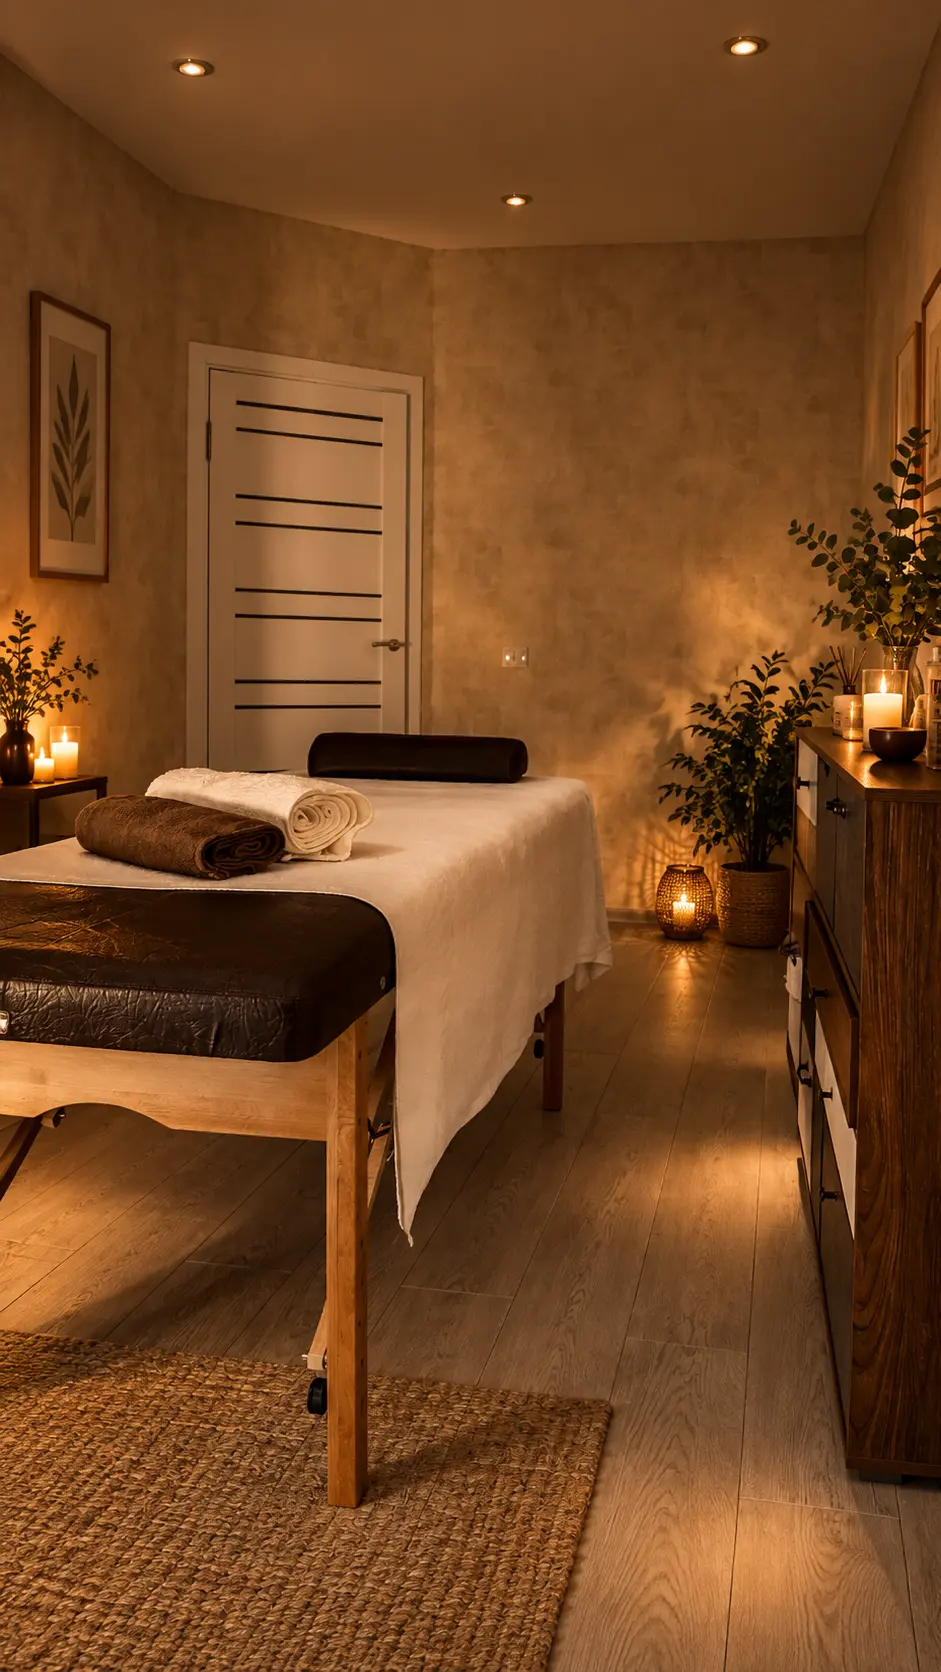
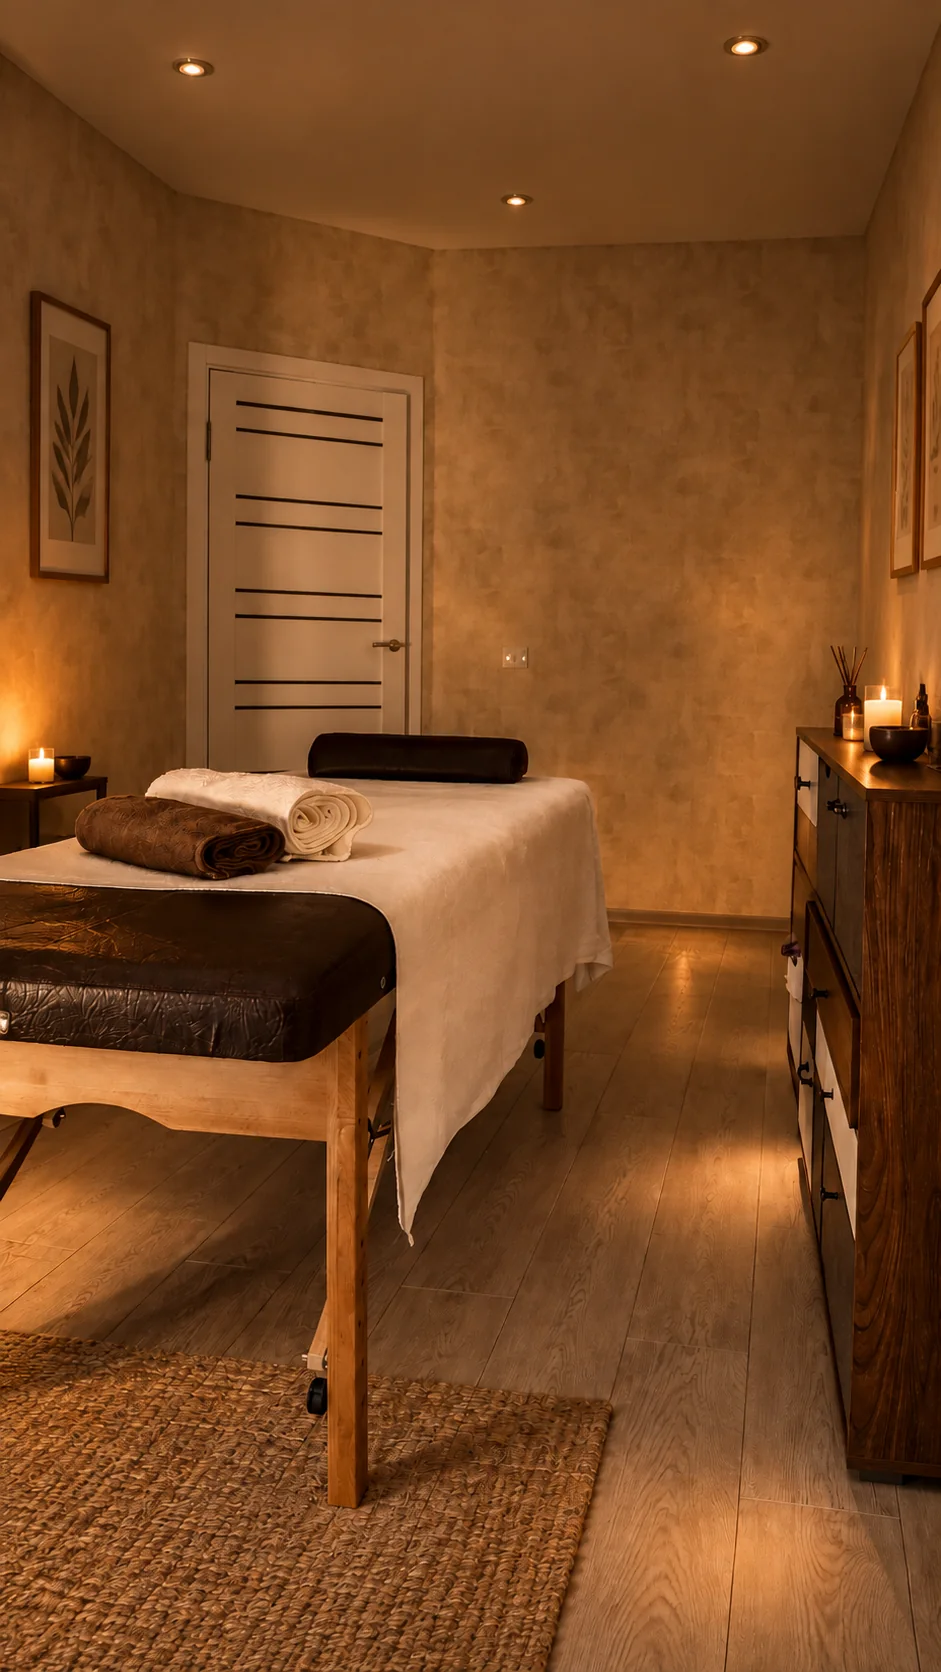
Replace room photos with cleaner client revisions

diff --git a/app/page.tsx b/app/page.tsx
@@ -424,7 +424,7 @@ export default function Home() {
           <div className="approach-poster">
             <img
               src="./images/photo-01-room.webp"
-              alt="Подготовленный массажный кабинет с мягким светом и зеленью"
+              alt="Подготовленный массажный кабинет с мягким тёплым светом"
               width="941"
               height="1672"
               loading="lazy"
@@ -538,7 +538,7 @@ export default function Home() {
             <figure>
               <img
                 src="./images/photo-03-room.webp"
-                alt="Массажный кабинет с подготовленным столом и зелёными растениями"
+                alt="Массажный кабинет с подготовленным столом и тёплым освещением"
                 width="941"
                 height="1672"
                 loading="lazy"

diff --git a/DESIGN.md b/DESIGN.md
@@ -30,4 +30,4 @@ Calm editorial landing page for a private massage practice. Approved photography
 
 ## Image policy
 
-All seven approved photos are rendered with responsive `object-fit: cover` crops. Photo 7 leads the hero inside a portrait frame; photos 1–6 are distributed across the about, visit, included and space sections. Gradients and compact captions protect text contrast without hiding the atmosphere of each frame.
+All seven approved photos are rendered with responsive `object-fit: cover` crops. Photo 7 leads the hero inside a portrait frame; photos 1–6 are distributed across the about, visit, included and space sections. The two revised room photographs use the client-approved cleaner styling with less greenery and fewer candles. Gradients and compact captions protect text contrast without hiding the atmosphere of each frame.
